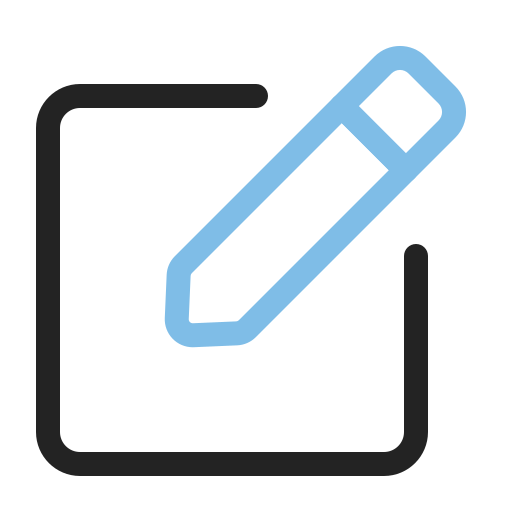
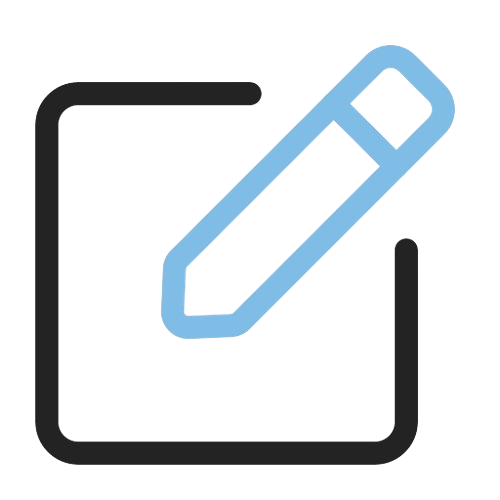
fix images imports & rework CSS

diff --git a/notes-app/src/components/Sidebar.js b/notes-app/src/components/Sidebar.js
@@ -1,8 +1,10 @@
+import AddButton from "../images/newNote.png"
+
 export default function Sidebar(props){
     return(
         <aside className="Side">
             <button className="Button-create-note" onClick={props.AddNote}>
-                <img src="../images/newNote.png" alt="add note logo"/>
+                <img src={AddButton} alt="add note logo" width="30px"/>
             </button>
 
             {props.notes !== null

diff --git a/notes-app/src/App.css b/notes-app/src/App.css
@@ -65,13 +65,20 @@
   font-weight: bold;
 }
 
+.Button-create-note{
+  background-color: transparent;
+  border: none;
+  margin: 10px 0 0 10px;
+}
+
 .Editor-message{
   text-align: center;
-  padding-top: 50vh;
+  padding-top: 30vh;
   font-size: 50px;
   font-weight: bold;
   color: #415a77;
 }
+
 
 /* .Side {
   position: fixed;

diff --git a/notes-app/src/components/Navbar.js b/notes-app/src/components/Navbar.js
@@ -4,7 +4,7 @@ export default function Navbar(){
 
     return(
         <div className="Navbar">
-            <img src={Logo} alt="Logo"/>
+            <img src={Logo} alt="Logo" height="60px"/>
             <h1>My notes</h1>
             <select className="select-theme">
                 <option value="">--Theme--</option>
